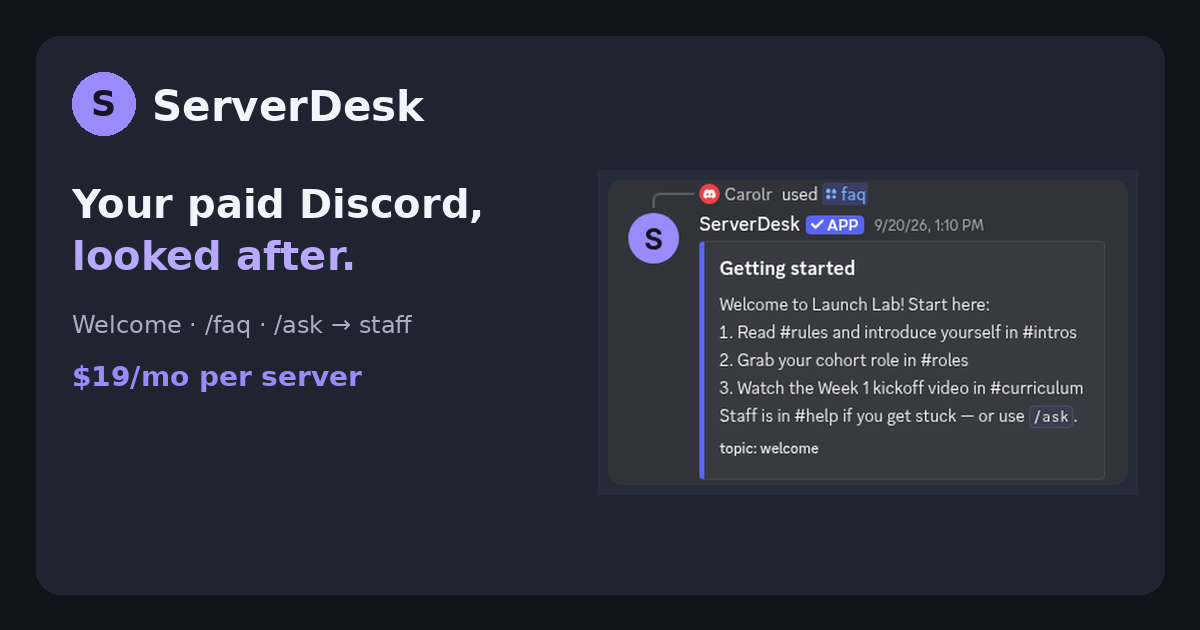
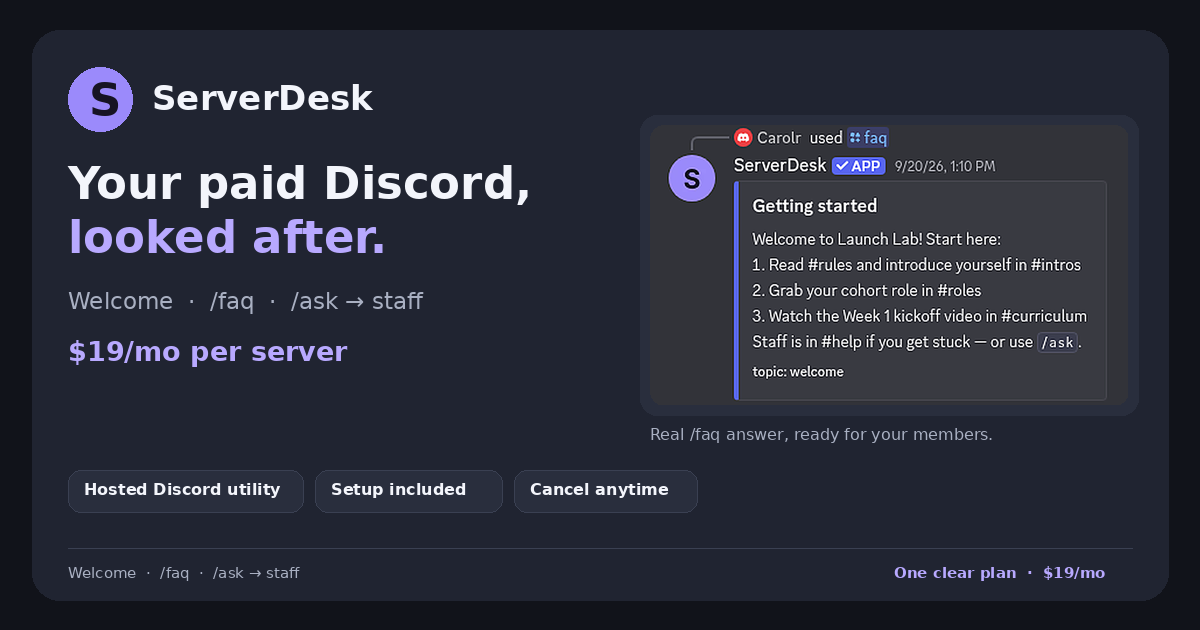
Recheck #6 cosmetics for landing page

diff --git a/index.html b/index.html
@@ -50,20 +50,20 @@
               <span aria-hidden="true">→</span>
             </a>
           </div>
-          <p class="fine-print">Checkout by Stripe · Invite link emailed within 24 hours · Cancel&nbsp;anytime</p>
+          <p class="fine-print"><span>Checkout by Stripe</span><span>·&nbsp;Invite link emailed within 24 hours</span><span>·&nbsp;Cancel&nbsp;anytime</span></p>
         </div>
 
         <figure class="product-card proof-card">
           <img
             class="proof-shot"
             src="images/faq-proof.png"
-            width="820"
-            height="482"
+            width="1040"
+            height="611"
             alt="Discord screenshot: Carolr uses /faq and ServerDesk replies with a Getting started guide"
             loading="eager"
             decoding="async"
           >
-          <figcaption class="proof-caption">Real screenshot: /faq replies with a getting-started&nbsp;guide.</figcaption>
+          <figcaption class="proof-caption">Real screenshot: /faq replies with a getting‑started&nbsp;guide.</figcaption>
         </figure>
       </div>
     </section>
@@ -111,14 +111,14 @@
             <span class="timeline-when">Minute 0</span>
             <div>
               <strong>Checkout on Stripe</strong>
-              <p>$19/mo per server. Secure payment billed as Godin Solutions LLC.</p>
+              <p>$19/mo per server. Secure payment billed as Godin Solutions LLC.</p>
             </div>
           </li>
           <li>
             <span class="timeline-when">Within 24h</span>
             <div>
               <strong>Invite link by email</strong>
-              <p>We email your Discord invite and a short setup note within 24 hours of payment.</p>
+              <p>I’ll email your Discord invite and a short setup note within 24 hours of payment.</p>
             </div>
           </li>
           <li>
@@ -153,13 +153,13 @@
             <span class="cta-short">Add to my server — $19/mo</span>
             <span aria-hidden="true">→</span>
           </a>
-          <p class="fine-print">Secure checkout via Stripe — billed as Godin Solutions LLC</p>
+          <p class="fine-print">Secure checkout via Stripe — billed as Godin Solutions LLC</p>
         </div>
       </div>
       <div class="container policy-block">
         <p><strong>Refunds:</strong> Full refund within 7 days of your first payment if you email <a href="mailto:serverdesk.godinrules@gmail.com">serverdesk.godinrules@gmail.com</a>.</p>
         <p><strong>Cancel:</strong> Cancel anytime via Stripe or by emailing <a href="mailto:serverdesk.godinrules@gmail.com">serverdesk.godinrules@gmail.com</a>.</p>
-        <p class="persona-line">Built and supported by Carol, Godin Solutions LLC. Questions go straight to me on <a href="https://discord.gg/J2VJwsP5QP">Discord</a>.</p>
+        <p class="persona-line">Built and supported by Carol, Godin Solutions LLC. Questions go straight to me on <a href="https://discord.gg/J2VJwsP5QP">Discord</a>.</p>
       </div>
       <p class="support-line">Support: <a href="https://discord.gg/J2VJwsP5QP">Discord</a> · <a href="mailto:serverdesk.godinrules@gmail.com">serverdesk.godinrules@gmail.com</a></p>
     </section>
@@ -172,7 +172,7 @@
         </div>
         <ol class="steps">
           <li><span>01</span><div><strong>Subscribe</strong><p>$19/mo through Stripe. Cancel anytime.</p></div></li>
-          <li><span>02</span><div><strong>Add ServerDesk to your server</strong><p>We email your invite link within 24 hours of checkout.</p></div></li>
+          <li><span>02</span><div><strong>Add ServerDesk to your server</strong><p>I’ll email your invite link within 24 hours of checkout.</p></div></li>
           <li><span>03</span><div><strong>Run /setup</strong><p>Pick your welcome channel, staff channel, and staff role.</p></div></li>
         </ol>
         <a class="text-link" href="/setup">Hosted setup details →</a>
@@ -188,7 +188,7 @@
           <span class="cta-short">Add to my server — $19/mo</span>
           <span aria-hidden="true">→</span>
         </a>
-        <p class="fine-print">Checkout by Stripe · Invite link emailed within 24 hours · Cancel&nbsp;anytime</p>
+        <p class="fine-print"><span>Checkout by Stripe</span><span>·&nbsp;Invite link emailed within 24 hours</span><span>·&nbsp;Cancel&nbsp;anytime</span></p>
       </div>
     </section>
   </main>
@@ -197,7 +197,7 @@
     <div class="container footer-wrap">
       <div class="footer-brand">
         <div class="brand"><span class="brand-mark" aria-hidden="true">S</span><span>ServerDesk</span></div>
-        <p class="footer-made">Made by Godin Solutions LLC</p>
+        <p class="footer-made">Made by Godin Solutions LLC</p>
       </div>
       <div class="footer-meta">
         <p class="footer-links"><a href="/privacy">Privacy</a> · <a href="/terms">Terms</a> · <a href="/setup">Setup</a></p>

diff --git a/styles.css b/styles.css
@@ -52,14 +52,15 @@ h3 { margin-bottom: 8px; font-size: 1.05rem; letter-spacing: -.02em; }
 .button-primary:hover { background: var(--purple-bright); }
 .button-light { background: var(--text); color: #171424; }
 .button-light:hover { background: white; }
-.fine-print { margin: 14px 0 0; color: var(--subtle); font-size: .8rem; }
+.fine-print { display: flex; flex-wrap: wrap; gap: 0 .5em; margin: 14px 0 0; color: var(--subtle); font-size: .8rem; }
+.fine-print > span { white-space: nowrap; }
 
 /* Mobile CTA short label */
 .cta-short { display: none; }
 .cta-full { display: inline; }
 .cta-buy { gap: 10px; text-align: center; }
 
-.product-card { position: relative; margin: 0; padding: 10px; border: 1px solid var(--line); border-radius: 16px; background: var(--surface); box-shadow: 0 25px 80px rgba(0, 0, 0, .24); transform: rotate(1.5deg); }
+.product-card { position: relative; margin: 0; padding: 10px; border: 1px solid var(--line); border-radius: 16px; background: var(--surface); box-shadow: 0 25px 80px rgba(0, 0, 0, .24); transform: rotate(.5deg); }
 .proof-card { max-width: none; }
 .proof-shot {
   display: block;
@@ -67,7 +68,6 @@ h3 { margin-bottom: 8px; font-size: 1.05rem; letter-spacing: -.02em; }
   max-width: 100%;
   height: auto;
   border-radius: 10px;
-  border: 1px solid rgba(155, 138, 251, .22);
   background: transparent;
   object-fit: contain;
 }

diff --git a/terms.html b/terms.html
@@ -41,7 +41,7 @@
     <p>Last updated: September 29, 2026</p>
     <p>By using ServerDesk you agree to these terms.</p>
     <h2>Service</h2>
-    <p>ServerDesk provides Discord welcome, FAQ, and staff-routing tools. Hosted plans are billed monthly via Stripe at the price shown at checkout (currently $19/mo per server unless otherwise stated). Billed as Godin Solutions LLC.</p>
+    <p>ServerDesk provides Discord welcome, FAQ, and staff-routing tools. Hosted plans are billed monthly via Stripe at the price shown at checkout (currently $19/mo per server unless otherwise stated). Billed as Godin Solutions LLC.</p>
     <h2>Acceptable use</h2>
     <ul>
       <li>No using ServerDesk to spam, harass, or violate Discord Terms of Service</li>
@@ -64,7 +64,7 @@
     <div class="container footer-wrap">
       <div class="footer-brand">
         <div class="brand"><span class="brand-mark" aria-hidden="true">S</span><span>ServerDesk</span></div>
-        <p class="footer-made">Made by Godin Solutions LLC</p>
+        <p class="footer-made">Made by Godin Solutions LLC</p>
       </div>
       <div class="footer-meta">
         <p class="footer-links"><a href="/privacy">Privacy</a> · <a href="/terms">Terms</a> · <a href="/setup">Setup</a></p>

diff --git a/privacy.html b/privacy.html
@@ -65,7 +65,7 @@
     <div class="container footer-wrap">
       <div class="footer-brand">
         <div class="brand"><span class="brand-mark" aria-hidden="true">S</span><span>ServerDesk</span></div>
-        <p class="footer-made">Made by Godin Solutions LLC</p>
+        <p class="footer-made">Made by Godin Solutions LLC</p>
       </div>
       <div class="footer-meta">
         <p class="footer-links"><a href="/privacy">Privacy</a> · <a href="/terms">Terms</a> · <a href="/setup">Setup</a></p>

diff --git a/setup.html b/setup.html
@@ -77,7 +77,7 @@
     <div class="container footer-wrap">
       <div class="footer-brand">
         <div class="brand"><span class="brand-mark" aria-hidden="true">S</span><span>ServerDesk</span></div>
-        <p class="footer-made">Made by Godin Solutions LLC</p>
+        <p class="footer-made">Made by Godin Solutions LLC</p>
       </div>
       <div class="footer-meta">
         <p class="footer-links"><a href="/privacy">Privacy</a> · <a href="/terms">Terms</a> · <a href="/setup">Setup</a></p>
